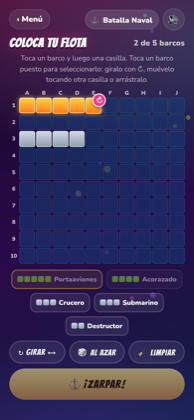
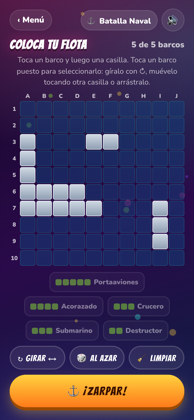
Batalla Naval: etiquetas de fila y columna dentro de la grilla
En Safari de iPhone los números 1 a 10 se desalineaban de las casillas y el 10
caía bajo la grilla, porque las etiquetas eran un contenedor aparte. Ahora son
una fila y una columna más de la misma grilla CSS. Medido: 0 px de desfase en
320, 375 y 430 px. Canon C-8; changelog 0.9.4.

diff --git a/index.html b/index.html
@@ -10,8 +10,8 @@
   <meta name="description" content="Juegos de salón para jugar con amigos: elige un juego, ingresa a los jugadores y deja que el celular guíe la partida.">
   <link rel="manifest" href="manifest.webmanifest">
   <link rel="icon" href="assets/icon.svg" type="image/svg+xml">
-  <script type="importmap" id="importmap">{"imports": {"./assets/js/ui.js": "./assets/js/ui.js?v=0.9.3", "./assets/js/i18n.js": "./assets/js/i18n.js?v=0.9.3", "./assets/js/sound.js": "./assets/js/sound.js?v=0.9.3", "./assets/js/games.js": "./assets/js/games.js?v=0.9.3", "./assets/js/firebase-config.js": "./assets/js/firebase-config.js?v=0.9.3", "./assets/js/frases.js": "./assets/js/frases.js?v=0.9.3", "./cuarto-rey/game.js": "./cuarto-rey/game.js?v=0.9.3", "./cuarto-rey/rules.js": "./cuarto-rey/rules.js?v=0.9.3", "./toque-y-fama/game.js": "./toque-y-fama/game.js?v=0.9.3", "./toque-y-fama/rules.js": "./toque-y-fama/rules.js?v=0.9.3", "./toque-y-fama/engine.js": "./toque-y-fama/engine.js?v=0.9.3", "./assets/js/transport/local.js": "./assets/js/transport/local.js?v=0.9.3", "./assets/js/transport/firebase.js": "./assets/js/transport/firebase.js?v=0.9.3", "./assets/js/handoff.js": "./assets/js/handoff.js?v=0.9.3", "./assets/js/session.js": "./assets/js/session.js?v=0.9.3", "./batalla-naval/game.js": "./batalla-naval/game.js?v=0.9.3", "./batalla-naval/rules.js": "./batalla-naval/rules.js?v=0.9.3", "./batalla-naval/engine.js": "./batalla-naval/engine.js?v=0.9.3", "./linea-de-tiempo/game.js": "./linea-de-tiempo/game.js?v=0.9.3", "./linea-de-tiempo/rules.js": "./linea-de-tiempo/rules.js?v=0.9.3", "./linea-de-tiempo/engine.js": "./linea-de-tiempo/engine.js?v=0.9.3", "./linea-de-tiempo/decks/index.js": "./linea-de-tiempo/decks/index.js?v=0.9.3", "./linea-de-tiempo/decks/historia.js": "./linea-de-tiempo/decks/historia.js?v=0.9.3", "./linea-de-tiempo/decks/musica.js": "./linea-de-tiempo/decks/musica.js?v=0.9.3"}}</script>
-  <link rel="stylesheet" href="assets/css/base.css?v=0.9.3">
+  <script type="importmap" id="importmap">{"imports": {"./assets/js/ui.js": "./assets/js/ui.js?v=0.9.4", "./assets/js/i18n.js": "./assets/js/i18n.js?v=0.9.4", "./assets/js/sound.js": "./assets/js/sound.js?v=0.9.4", "./assets/js/games.js": "./assets/js/games.js?v=0.9.4", "./assets/js/firebase-config.js": "./assets/js/firebase-config.js?v=0.9.4", "./assets/js/frases.js": "./assets/js/frases.js?v=0.9.4", "./cuarto-rey/game.js": "./cuarto-rey/game.js?v=0.9.4", "./cuarto-rey/rules.js": "./cuarto-rey/rules.js?v=0.9.4", "./toque-y-fama/game.js": "./toque-y-fama/game.js?v=0.9.4", "./toque-y-fama/rules.js": "./toque-y-fama/rules.js?v=0.9.4", "./toque-y-fama/engine.js": "./toque-y-fama/engine.js?v=0.9.4", "./assets/js/transport/local.js": "./assets/js/transport/local.js?v=0.9.4", "./assets/js/transport/firebase.js": "./assets/js/transport/firebase.js?v=0.9.4", "./assets/js/handoff.js": "./assets/js/handoff.js?v=0.9.4", "./assets/js/session.js": "./assets/js/session.js?v=0.9.4", "./batalla-naval/game.js": "./batalla-naval/game.js?v=0.9.4", "./batalla-naval/rules.js": "./batalla-naval/rules.js?v=0.9.4", "./batalla-naval/engine.js": "./batalla-naval/engine.js?v=0.9.4", "./linea-de-tiempo/game.js": "./linea-de-tiempo/game.js?v=0.9.4", "./linea-de-tiempo/rules.js": "./linea-de-tiempo/rules.js?v=0.9.4", "./linea-de-tiempo/engine.js": "./linea-de-tiempo/engine.js?v=0.9.4", "./linea-de-tiempo/decks/index.js": "./linea-de-tiempo/decks/index.js?v=0.9.4", "./linea-de-tiempo/decks/historia.js": "./linea-de-tiempo/decks/historia.js?v=0.9.4", "./linea-de-tiempo/decks/musica.js": "./linea-de-tiempo/decks/musica.js?v=0.9.4"}}</script>
+  <link rel="stylesheet" href="assets/css/base.css?v=0.9.4">
   <style>
     .hero { text-align: center; padding: 28px 0 18px; }
     .hero .emoji { font-size: 3.2rem; display: block; margin-bottom: 6px; }
@@ -57,7 +57,7 @@
 
     <footer>
       <p class="footer-msg" id="footer-msg" aria-live="polite">Toma con responsabilidad y con agua a mano. Si manejas, no tomas. 🚕</p>
-      <p class="muted">v0.9.3 · <a href="https://github.com/ellokojavi/juegos-de-salon" style="color:inherit" data-i18n="code">código en GitHub</a></p>
+      <p class="muted">v0.9.4 · <a href="https://github.com/ellokojavi/juegos-de-salon" style="color:inherit" data-i18n="code">código en GitHub</a></p>
     </footer>
   </main>
 

diff --git a/linea-de-tiempo/index.html b/linea-de-tiempo/index.html
@@ -9,9 +9,9 @@
   <title>Línea de Tiempo ⏳ · Juegos de Salón</title>
   <link rel="manifest" href="../manifest.webmanifest">
   <link rel="icon" href="../assets/icon.svg" type="image/svg+xml">
-  <script type="importmap" id="importmap">{"imports": {"../assets/js/ui.js": "../assets/js/ui.js?v=0.9.3", "../assets/js/i18n.js": "../assets/js/i18n.js?v=0.9.3", "../assets/js/sound.js": "../assets/js/sound.js?v=0.9.3", "../assets/js/games.js": "../assets/js/games.js?v=0.9.3", "../assets/js/firebase-config.js": "../assets/js/firebase-config.js?v=0.9.3", "../assets/js/frases.js": "../assets/js/frases.js?v=0.9.3", "../cuarto-rey/game.js": "../cuarto-rey/game.js?v=0.9.3", "../cuarto-rey/rules.js": "../cuarto-rey/rules.js?v=0.9.3", "../toque-y-fama/game.js": "../toque-y-fama/game.js?v=0.9.3", "../toque-y-fama/rules.js": "../toque-y-fama/rules.js?v=0.9.3", "../toque-y-fama/engine.js": "../toque-y-fama/engine.js?v=0.9.3", "../assets/js/transport/local.js": "../assets/js/transport/local.js?v=0.9.3", "../assets/js/transport/firebase.js": "../assets/js/transport/firebase.js?v=0.9.3", "../assets/js/handoff.js": "../assets/js/handoff.js?v=0.9.3", "../assets/js/session.js": "../assets/js/session.js?v=0.9.3", "../batalla-naval/game.js": "../batalla-naval/game.js?v=0.9.3", "../batalla-naval/rules.js": "../batalla-naval/rules.js?v=0.9.3", "../batalla-naval/engine.js": "../batalla-naval/engine.js?v=0.9.3", "../linea-de-tiempo/game.js": "../linea-de-tiempo/game.js?v=0.9.3", "../linea-de-tiempo/rules.js": "../linea-de-tiempo/rules.js?v=0.9.3", "../linea-de-tiempo/engine.js": "../linea-de-tiempo/engine.js?v=0.9.3", "../linea-de-tiempo/decks/index.js": "../linea-de-tiempo/decks/index.js?v=0.9.3", "../linea-de-tiempo/decks/historia.js": "../linea-de-tiempo/decks/historia.js?v=0.9.3", "../linea-de-tiempo/decks/musica.js": "../linea-de-tiempo/decks/musica.js?v=0.9.3"}}</script>
-  <link rel="stylesheet" href="../assets/css/base.css?v=0.9.3">
-  <link rel="stylesheet" href="style.css?v=0.9.3">
+  <script type="importmap" id="importmap">{"imports": {"../assets/js/ui.js": "../assets/js/ui.js?v=0.9.4", "../assets/js/i18n.js": "../assets/js/i18n.js?v=0.9.4", "../assets/js/sound.js": "../assets/js/sound.js?v=0.9.4", "../assets/js/games.js": "../assets/js/games.js?v=0.9.4", "../assets/js/firebase-config.js": "../assets/js/firebase-config.js?v=0.9.4", "../assets/js/frases.js": "../assets/js/frases.js?v=0.9.4", "../cuarto-rey/game.js": "../cuarto-rey/game.js?v=0.9.4", "../cuarto-rey/rules.js": "../cuarto-rey/rules.js?v=0.9.4", "../toque-y-fama/game.js": "../toque-y-fama/game.js?v=0.9.4", "../toque-y-fama/rules.js": "../toque-y-fama/rules.js?v=0.9.4", "../toque-y-fama/engine.js": "../toque-y-fama/engine.js?v=0.9.4", "../assets/js/transport/local.js": "../assets/js/transport/local.js?v=0.9.4", "../assets/js/transport/firebase.js": "../assets/js/transport/firebase.js?v=0.9.4", "../assets/js/handoff.js": "../assets/js/handoff.js?v=0.9.4", "../assets/js/session.js": "../assets/js/session.js?v=0.9.4", "../batalla-naval/game.js": "../batalla-naval/game.js?v=0.9.4", "../batalla-naval/rules.js": "../batalla-naval/rules.js?v=0.9.4", "../batalla-naval/engine.js": "../batalla-naval/engine.js?v=0.9.4", "../linea-de-tiempo/game.js": "../linea-de-tiempo/game.js?v=0.9.4", "../linea-de-tiempo/rules.js": "../linea-de-tiempo/rules.js?v=0.9.4", "../linea-de-tiempo/engine.js": "../linea-de-tiempo/engine.js?v=0.9.4", "../linea-de-tiempo/decks/index.js": "../linea-de-tiempo/decks/index.js?v=0.9.4", "../linea-de-tiempo/decks/historia.js": "../linea-de-tiempo/decks/historia.js?v=0.9.4", "../linea-de-tiempo/decks/musica.js": "../linea-de-tiempo/decks/musica.js?v=0.9.4"}}</script>
+  <link rel="stylesheet" href="../assets/css/base.css?v=0.9.4">
+  <link rel="stylesheet" href="style.css?v=0.9.4">
 </head>
 <body>
   <main class="app" id="app">

diff --git a/batalla-naval/index.html b/batalla-naval/index.html
@@ -9,9 +9,9 @@
   <title>Batalla Naval ⚓ · Juegos de Salón</title>
   <link rel="manifest" href="../manifest.webmanifest">
   <link rel="icon" href="../assets/icon.svg" type="image/svg+xml">
-  <script type="importmap" id="importmap">{"imports": {"../assets/js/ui.js": "../assets/js/ui.js?v=0.9.3", "../assets/js/i18n.js": "../assets/js/i18n.js?v=0.9.3", "../assets/js/sound.js": "../assets/js/sound.js?v=0.9.3", "../assets/js/games.js": "../assets/js/games.js?v=0.9.3", "../assets/js/firebase-config.js": "../assets/js/firebase-config.js?v=0.9.3", "../assets/js/frases.js": "../assets/js/frases.js?v=0.9.3", "../cuarto-rey/game.js": "../cuarto-rey/game.js?v=0.9.3", "../cuarto-rey/rules.js": "../cuarto-rey/rules.js?v=0.9.3", "../toque-y-fama/game.js": "../toque-y-fama/game.js?v=0.9.3", "../toque-y-fama/rules.js": "../toque-y-fama/rules.js?v=0.9.3", "../toque-y-fama/engine.js": "../toque-y-fama/engine.js?v=0.9.3", "../assets/js/transport/local.js": "../assets/js/transport/local.js?v=0.9.3", "../assets/js/transport/firebase.js": "../assets/js/transport/firebase.js?v=0.9.3", "../assets/js/handoff.js": "../assets/js/handoff.js?v=0.9.3", "../assets/js/session.js": "../assets/js/session.js?v=0.9.3", "../batalla-naval/game.js": "../batalla-naval/game.js?v=0.9.3", "../batalla-naval/rules.js": "../batalla-naval/rules.js?v=0.9.3", "../batalla-naval/engine.js": "../batalla-naval/engine.js?v=0.9.3", "../linea-de-tiempo/game.js": "../linea-de-tiempo/game.js?v=0.9.3", "../linea-de-tiempo/rules.js": "../linea-de-tiempo/rules.js?v=0.9.3", "../linea-de-tiempo/engine.js": "../linea-de-tiempo/engine.js?v=0.9.3", "../linea-de-tiempo/decks/index.js": "../linea-de-tiempo/decks/index.js?v=0.9.3", "../linea-de-tiempo/decks/historia.js": "../linea-de-tiempo/decks/historia.js?v=0.9.3", "../linea-de-tiempo/decks/musica.js": "../linea-de-tiempo/decks/musica.js?v=0.9.3"}}</script>
-  <link rel="stylesheet" href="../assets/css/base.css?v=0.9.3">
-  <link rel="stylesheet" href="style.css?v=0.9.3">
+  <script type="importmap" id="importmap">{"imports": {"../assets/js/ui.js": "../assets/js/ui.js?v=0.9.4", "../assets/js/i18n.js": "../assets/js/i18n.js?v=0.9.4", "../assets/js/sound.js": "../assets/js/sound.js?v=0.9.4", "../assets/js/games.js": "../assets/js/games.js?v=0.9.4", "../assets/js/firebase-config.js": "../assets/js/firebase-config.js?v=0.9.4", "../assets/js/frases.js": "../assets/js/frases.js?v=0.9.4", "../cuarto-rey/game.js": "../cuarto-rey/game.js?v=0.9.4", "../cuarto-rey/rules.js": "../cuarto-rey/rules.js?v=0.9.4", "../toque-y-fama/game.js": "../toque-y-fama/game.js?v=0.9.4", "../toque-y-fama/rules.js": "../toque-y-fama/rules.js?v=0.9.4", "../toque-y-fama/engine.js": "../toque-y-fama/engine.js?v=0.9.4", "../assets/js/transport/local.js": "../assets/js/transport/local.js?v=0.9.4", "../assets/js/transport/firebase.js": "../assets/js/transport/firebase.js?v=0.9.4", "../assets/js/handoff.js": "../assets/js/handoff.js?v=0.9.4", "../assets/js/session.js": "../assets/js/session.js?v=0.9.4", "../batalla-naval/game.js": "../batalla-naval/game.js?v=0.9.4", "../batalla-naval/rules.js": "../batalla-naval/rules.js?v=0.9.4", "../batalla-naval/engine.js": "../batalla-naval/engine.js?v=0.9.4", "../linea-de-tiempo/game.js": "../linea-de-tiempo/game.js?v=0.9.4", "../linea-de-tiempo/rules.js": "../linea-de-tiempo/rules.js?v=0.9.4", "../linea-de-tiempo/engine.js": "../linea-de-tiempo/engine.js?v=0.9.4", "../linea-de-tiempo/decks/index.js": "../linea-de-tiempo/decks/index.js?v=0.9.4", "../linea-de-tiempo/decks/historia.js": "../linea-de-tiempo/decks/historia.js?v=0.9.4", "../linea-de-tiempo/decks/musica.js": "../linea-de-tiempo/decks/musica.js?v=0.9.4"}}</script>
+  <link rel="stylesheet" href="../assets/css/base.css?v=0.9.4">
+  <link rel="stylesheet" href="style.css?v=0.9.4">
 </head>
 <body>
   <main class="app" id="app">

diff --git a/toque-y-fama/index.html b/toque-y-fama/index.html
@@ -9,9 +9,9 @@
   <title>Toque y Fama 🔢 · Juegos de Salón</title>
   <link rel="manifest" href="../manifest.webmanifest">
   <link rel="icon" href="../assets/icon.svg" type="image/svg+xml">
-  <script type="importmap" id="importmap">{"imports": {"../assets/js/ui.js": "../assets/js/ui.js?v=0.9.3", "../assets/js/i18n.js": "../assets/js/i18n.js?v=0.9.3", "../assets/js/sound.js": "../assets/js/sound.js?v=0.9.3", "../assets/js/games.js": "../assets/js/games.js?v=0.9.3", "../assets/js/firebase-config.js": "../assets/js/firebase-config.js?v=0.9.3", "../assets/js/frases.js": "../assets/js/frases.js?v=0.9.3", "../cuarto-rey/game.js": "../cuarto-rey/game.js?v=0.9.3", "../cuarto-rey/rules.js": "../cuarto-rey/rules.js?v=0.9.3", "../toque-y-fama/game.js": "../toque-y-fama/game.js?v=0.9.3", "../toque-y-fama/rules.js": "../toque-y-fama/rules.js?v=0.9.3", "../toque-y-fama/engine.js": "../toque-y-fama/engine.js?v=0.9.3", "../assets/js/transport/local.js": "../assets/js/transport/local.js?v=0.9.3", "../assets/js/transport/firebase.js": "../assets/js/transport/firebase.js?v=0.9.3", "../assets/js/handoff.js": "../assets/js/handoff.js?v=0.9.3", "../assets/js/session.js": "../assets/js/session.js?v=0.9.3", "../batalla-naval/game.js": "../batalla-naval/game.js?v=0.9.3", "../batalla-naval/rules.js": "../batalla-naval/rules.js?v=0.9.3", "../batalla-naval/engine.js": "../batalla-naval/engine.js?v=0.9.3", "../linea-de-tiempo/game.js": "../linea-de-tiempo/game.js?v=0.9.3", "../linea-de-tiempo/rules.js": "../linea-de-tiempo/rules.js?v=0.9.3", "../linea-de-tiempo/engine.js": "../linea-de-tiempo/engine.js?v=0.9.3", "../linea-de-tiempo/decks/index.js": "../linea-de-tiempo/decks/index.js?v=0.9.3", "../linea-de-tiempo/decks/historia.js": "../linea-de-tiempo/decks/historia.js?v=0.9.3", "../linea-de-tiempo/decks/musica.js": "../linea-de-tiempo/decks/musica.js?v=0.9.3"}}</script>
-  <link rel="stylesheet" href="../assets/css/base.css?v=0.9.3">
-  <link rel="stylesheet" href="style.css?v=0.9.3">
+  <script type="importmap" id="importmap">{"imports": {"../assets/js/ui.js": "../assets/js/ui.js?v=0.9.4", "../assets/js/i18n.js": "../assets/js/i18n.js?v=0.9.4", "../assets/js/sound.js": "../assets/js/sound.js?v=0.9.4", "../assets/js/games.js": "../assets/js/games.js?v=0.9.4", "../assets/js/firebase-config.js": "../assets/js/firebase-config.js?v=0.9.4", "../assets/js/frases.js": "../assets/js/frases.js?v=0.9.4", "../cuarto-rey/game.js": "../cuarto-rey/game.js?v=0.9.4", "../cuarto-rey/rules.js": "../cuarto-rey/rules.js?v=0.9.4", "../toque-y-fama/game.js": "../toque-y-fama/game.js?v=0.9.4", "../toque-y-fama/rules.js": "../toque-y-fama/rules.js?v=0.9.4", "../toque-y-fama/engine.js": "../toque-y-fama/engine.js?v=0.9.4", "../assets/js/transport/local.js": "../assets/js/transport/local.js?v=0.9.4", "../assets/js/transport/firebase.js": "../assets/js/transport/firebase.js?v=0.9.4", "../assets/js/handoff.js": "../assets/js/handoff.js?v=0.9.4", "../assets/js/session.js": "../assets/js/session.js?v=0.9.4", "../batalla-naval/game.js": "../batalla-naval/game.js?v=0.9.4", "../batalla-naval/rules.js": "../batalla-naval/rules.js?v=0.9.4", "../batalla-naval/engine.js": "../batalla-naval/engine.js?v=0.9.4", "../linea-de-tiempo/game.js": "../linea-de-tiempo/game.js?v=0.9.4", "../linea-de-tiempo/rules.js": "../linea-de-tiempo/rules.js?v=0.9.4", "../linea-de-tiempo/engine.js": "../linea-de-tiempo/engine.js?v=0.9.4", "../linea-de-tiempo/decks/index.js": "../linea-de-tiempo/decks/index.js?v=0.9.4", "../linea-de-tiempo/decks/historia.js": "../linea-de-tiempo/decks/historia.js?v=0.9.4", "../linea-de-tiempo/decks/musica.js": "../linea-de-tiempo/decks/musica.js?v=0.9.4"}}</script>
+  <link rel="stylesheet" href="../assets/css/base.css?v=0.9.4">
+  <link rel="stylesheet" href="style.css?v=0.9.4">
 </head>
 <body>
   <main class="app" id="app">

diff --git a/cuarto-rey/index.html b/cuarto-rey/index.html
@@ -9,9 +9,9 @@
   <title>Cuarto Rey 👑 · Juegos de Salón</title>
   <link rel="manifest" href="../manifest.webmanifest">
   <link rel="icon" href="../assets/icon.svg" type="image/svg+xml">
-  <script type="importmap" id="importmap">{"imports": {"../assets/js/ui.js": "../assets/js/ui.js?v=0.9.3", "../assets/js/i18n.js": "../assets/js/i18n.js?v=0.9.3", "../assets/js/sound.js": "../assets/js/sound.js?v=0.9.3", "../assets/js/games.js": "../assets/js/games.js?v=0.9.3", "../assets/js/firebase-config.js": "../assets/js/firebase-config.js?v=0.9.3", "../assets/js/frases.js": "../assets/js/frases.js?v=0.9.3", "../cuarto-rey/game.js": "../cuarto-rey/game.js?v=0.9.3", "../cuarto-rey/rules.js": "../cuarto-rey/rules.js?v=0.9.3", "../toque-y-fama/game.js": "../toque-y-fama/game.js?v=0.9.3", "../toque-y-fama/rules.js": "../toque-y-fama/rules.js?v=0.9.3", "../toque-y-fama/engine.js": "../toque-y-fama/engine.js?v=0.9.3", "../assets/js/transport/local.js": "../assets/js/transport/local.js?v=0.9.3", "../assets/js/transport/firebase.js": "../assets/js/transport/firebase.js?v=0.9.3", "../assets/js/handoff.js": "../assets/js/handoff.js?v=0.9.3", "../assets/js/session.js": "../assets/js/session.js?v=0.9.3", "../batalla-naval/game.js": "../batalla-naval/game.js?v=0.9.3", "../batalla-naval/rules.js": "../batalla-naval/rules.js?v=0.9.3", "../batalla-naval/engine.js": "../batalla-naval/engine.js?v=0.9.3", "../linea-de-tiempo/game.js": "../linea-de-tiempo/game.js?v=0.9.3", "../linea-de-tiempo/rules.js": "../linea-de-tiempo/rules.js?v=0.9.3", "../linea-de-tiempo/engine.js": "../linea-de-tiempo/engine.js?v=0.9.3", "../linea-de-tiempo/decks/index.js": "../linea-de-tiempo/decks/index.js?v=0.9.3", "../linea-de-tiempo/decks/historia.js": "../linea-de-tiempo/decks/historia.js?v=0.9.3", "../linea-de-tiempo/decks/musica.js": "../linea-de-tiempo/decks/musica.js?v=0.9.3"}}</script>
-  <link rel="stylesheet" href="../assets/css/base.css?v=0.9.3">
-  <link rel="stylesheet" href="style.css?v=0.9.3">
+  <script type="importmap" id="importmap">{"imports": {"../assets/js/ui.js": "../assets/js/ui.js?v=0.9.4", "../assets/js/i18n.js": "../assets/js/i18n.js?v=0.9.4", "../assets/js/sound.js": "../assets/js/sound.js?v=0.9.4", "../assets/js/games.js": "../assets/js/games.js?v=0.9.4", "../assets/js/firebase-config.js": "../assets/js/firebase-config.js?v=0.9.4", "../assets/js/frases.js": "../assets/js/frases.js?v=0.9.4", "../cuarto-rey/game.js": "../cuarto-rey/game.js?v=0.9.4", "../cuarto-rey/rules.js": "../cuarto-rey/rules.js?v=0.9.4", "../toque-y-fama/game.js": "../toque-y-fama/game.js?v=0.9.4", "../toque-y-fama/rules.js": "../toque-y-fama/rules.js?v=0.9.4", "../toque-y-fama/engine.js": "../toque-y-fama/engine.js?v=0.9.4", "../assets/js/transport/local.js": "../assets/js/transport/local.js?v=0.9.4", "../assets/js/transport/firebase.js": "../assets/js/transport/firebase.js?v=0.9.4", "../assets/js/handoff.js": "../assets/js/handoff.js?v=0.9.4", "../assets/js/session.js": "../assets/js/session.js?v=0.9.4", "../batalla-naval/game.js": "../batalla-naval/game.js?v=0.9.4", "../batalla-naval/rules.js": "../batalla-naval/rules.js?v=0.9.4", "../batalla-naval/engine.js": "../batalla-naval/engine.js?v=0.9.4", "../linea-de-tiempo/game.js": "../linea-de-tiempo/game.js?v=0.9.4", "../linea-de-tiempo/rules.js": "../linea-de-tiempo/rules.js?v=0.9.4", "../linea-de-tiempo/engine.js": "../linea-de-tiempo/engine.js?v=0.9.4", "../linea-de-tiempo/decks/index.js": "../linea-de-tiempo/decks/index.js?v=0.9.4", "../linea-de-tiempo/decks/historia.js": "../linea-de-tiempo/decks/historia.js?v=0.9.4", "../linea-de-tiempo/decks/musica.js": "../linea-de-tiempo/decks/musica.js?v=0.9.4"}}</script>
+  <link rel="stylesheet" href="../assets/css/base.css?v=0.9.4">
+  <link rel="stylesheet" href="style.css?v=0.9.4">
 </head>
 <body>
   <main class="app" id="app">

diff --git a/batalla-naval/style.css b/batalla-naval/style.css
@@ -35,18 +35,19 @@
 #screen-setup > h2 { margin-bottom: 16px; }
 
 /* ---------- Grilla ---------- */
-.grid-wrap { display: grid; grid-template-columns: auto 1fr; gap: 2px; margin: 0 auto; width: 100%; max-width: 420px; user-select: none; -webkit-user-select: none; touch-action: none; }
+/* Una sola grilla de 11×11: la primera fila y la primera columna son las etiquetas.
+   Así los números y letras comparten las pistas con las casillas y no se desalinean (Safari incluido). */
+.grid-wrap { margin: 0 auto; width: 100%; max-width: 420px; user-select: none; -webkit-user-select: none; touch-action: none; }
 .grid-wrap.small { max-width: 220px; }
-.grid-wrap .corner { width: 18px; }
-.grid-wrap .cols { display: grid; grid-template-columns: repeat(10, 1fr); gap: 2px; }
-.grid-wrap .rows { display: grid; grid-template-rows: repeat(10, 1fr); gap: 2px; width: 18px; }
-.grid-wrap .lbl { color: var(--muted); font-weight: 900; font-size: 0.7rem; text-align: center; display: grid; place-items: center; }
-.grid { display: grid; grid-template-columns: repeat(10, minmax(0, 1fr)); gap: 2px; aspect-ratio: 1; min-width: 0; }
+.grid { display: grid; grid-template-columns: 18px repeat(10, minmax(0, 1fr)); grid-auto-rows: auto; gap: 2px; min-width: 0; }
+.grid .lbl { color: var(--muted); font-weight: 900; font-size: 0.7rem; text-align: center; display: grid; place-items: center; min-width: 0; }
+.grid .lbl.corner { min-height: 14px; }
 .cell {
   min-width: 0; overflow: hidden; aspect-ratio: 1; border-radius: 4px; background: rgba(20, 60, 120, 0.55); border: 1px solid rgba(46, 230, 214, 0.18);
   display: grid; place-items: center; font-size: clamp(0.7rem, 3.2vw, 1.05rem); line-height: 1; position: relative; transition: background 0.15s, transform 0.1s;
 }
 .grid-wrap.small .cell { font-size: 0.55rem; border-radius: 2px; }
+.grid-wrap.small .grid { grid-template-columns: 14px repeat(10, minmax(0, 1fr)); }
 .cell.ship { background: linear-gradient(180deg, #cfd8e3, #8f9fb3); border-color: #e9eef5; }
 .cell.ship.sel { background: linear-gradient(180deg, var(--yellow), var(--orange)); border-color: #fff; overflow: visible; z-index: 2; box-shadow: 0 0 10px rgba(255, 210, 63, 0.7); }
 .cell .rot {
@@ -118,7 +119,8 @@
 .fleets .f { display: grid; justify-items: center; gap: 4px; min-width: 0; }
 .fleets .f b { font-family: var(--font-display); font-size: 1.1rem; letter-spacing: 0.05em; }
 .fleets .grid-wrap.small { max-width: 100%; }
-.fleets .grid-wrap .lbl { font-size: 0.6rem; }
+.fleets .grid .lbl { font-size: 0.6rem; }
+.fleets .grid { grid-template-columns: 14px repeat(10, minmax(0, 1fr)); }
 .fleets .f small { color: var(--muted); font-weight: 800; text-align: center; }
 .replay { margin-top: 10px; padding: 12px 16px; }
 .replay summary { font-size: 1rem; }

diff --git a/batalla-naval/game.js b/batalla-naval/game.js
@@ -169,17 +169,23 @@ async function verifyAll() {
 /* ------------------------------------------------------------------ */
 function showScreen(id) { $$('.screen').forEach(s => s.classList.toggle('active', s.id === id)); window.scrollTo({ top: 0, behavior: 'instant' }); }
 
-/** Grilla 10×10 con etiquetas. cellClass(r,c) devuelve clases extra; onTap(r,c) opcional. */
+/**
+ * Grilla 10×10 con etiquetas. cellClass(r,c) devuelve clases extra; onTap(r,c) opcional.
+ * Las etiquetas viven DENTRO de la misma grilla (una fila y una columna más), así comparten
+ * las pistas de tamaño con las casillas y quedan alineadas en cualquier navegador.
+ */
 function gridEl({ small = false, cellClass = () => '', onTap = null, id = null }) {
-  const cols = el('div', { class: 'cols' }, ...COLS.split('').map(l => el('div', { class: 'lbl' }, l)));
-  const rows = el('div', { class: 'rows' }, ...Array.from({ length: N }, (_, i) => el('div', { class: 'lbl' }, i + 1)));
   const grid = el('div', { class: 'grid' });
-  for (let r = 0; r < N; r++) for (let c = 0; c < N; c++) {
-    const cell = el('div', { class: 'cell ' + cellClass(r, c), 'data-r': r, 'data-c': c });
-    if (onTap) cell.addEventListener('click', () => onTap(r, c, cell));
-    grid.append(cell);
+  grid.append(el('div', { class: 'lbl corner' }), ...COLS.split('').map(l => el('div', { class: 'lbl' }, l)));
+  for (let r = 0; r < N; r++) {
+    grid.append(el('div', { class: 'lbl' }, r + 1));
+    for (let c = 0; c < N; c++) {
+      const cell = el('div', { class: 'cell ' + cellClass(r, c), 'data-r': r, 'data-c': c });
+      if (onTap) cell.addEventListener('click', () => onTap(r, c, cell));
+      grid.append(cell);
+    }
   }
-  return el('div', { class: 'grid-wrap' + (small ? ' small' : ''), id }, el('div', { class: 'corner' }), cols, rows, grid);
+  return el('div', { class: 'grid-wrap' + (small ? ' small' : ''), id }, grid);
 }
 
 /** Clases de una casilla de mi propio tablero: barco + impactos recibidos. */

diff --git a/docs/juegos/batalla-naval.md b/docs/juegos/batalla-naval.md
@@ -93,7 +93,7 @@ Promedio esperado: 45 a 55 disparos para hundir la flota (un humano promedio ron
 ## 7. Interfaz y estilo
 
 - Misma identidad: fondo neón, Bangers en títulos, botones pill, confeti al ganar. Paleta del mar: casillas azul profundo, agua gris-azul, tocado naranjo, hundido rojo con brillo.
-- Grilla táctil: casillas mínimas de 30 px en 375 px de ancho (10 columnas + etiquetas). Sin scroll horizontal.
+- Grilla táctil: casillas mínimas de 30 px en 375 px de ancho. Es una sola grilla CSS de 11×11 donde la primera fila y la primera columna son las etiquetas, así números y letras quedan alineados con las casillas en todos los navegadores (v0.9.4). Sin scroll horizontal.
 - Todo en español e inglés (“Battleship”): agua/miss, tocado/hit, hundido/sunk, ¡Fuego!/Fire!, ¡Zarpar!/Set sail!
 - Accesible con dedo: selección + confirmación antes de disparar; vibración en tocado/hundido.
 

diff --git a/docs/CANONES.md b/docs/CANONES.md
@@ -98,6 +98,7 @@ Un modo que todavía no existe se muestra deshabilitado con "Próximamente", nun
 - Si una lista puede crecer sin límite, el botón de confirmar va flotando (`position: sticky; bottom: 0`) con un degradado detrás, nunca al final del contenido.
 - Los bloques largos (repaso de la partida, reglas) van colapsados por defecto.
 - Sin scroll horizontal. Las grillas y tablas se adaptan al ancho.
+- Las etiquetas de una grilla (letras, números) van **dentro** de la misma grilla CSS, como una fila y una columna más; nunca en un contenedor aparte que se alinea "a ojo", porque cada navegador lo estira distinto (pasó en Safari con Batalla Naval).
 - Se respeta `prefers-reduced-motion`.
 - Un toque fuera de un elemento seleccionado lo deselecciona.
 - Se muestra en pantalla lo que el jugador necesita recordar (su número secreto, su flota), tapado si el celular pasa de mano.

diff --git a/CHANGELOG.md b/CHANGELOG.md
@@ -1,5 +1,8 @@
 # Changelog
 
+## 0.9.4 — 2026-09-09
+- Fix Batalla Naval: en Safari de iPhone los números de fila (1 a 10) quedaban desalineados con las casillas y el 10 caía bajo la grilla. Las etiquetas ahora viven dentro de la misma grilla, como una fila y una columna más, así comparten el tamaño de las casillas en cualquier navegador. Verificado con cero píxeles de desfase en tres tamaños de pantalla.
+
 ## 0.9.3 — 2026-09-09
 - Fix: el solitario de Línea de Tiempo mostraba “{tries}” en vez de “intentos” (se publicó a medias la versión anterior).
 
